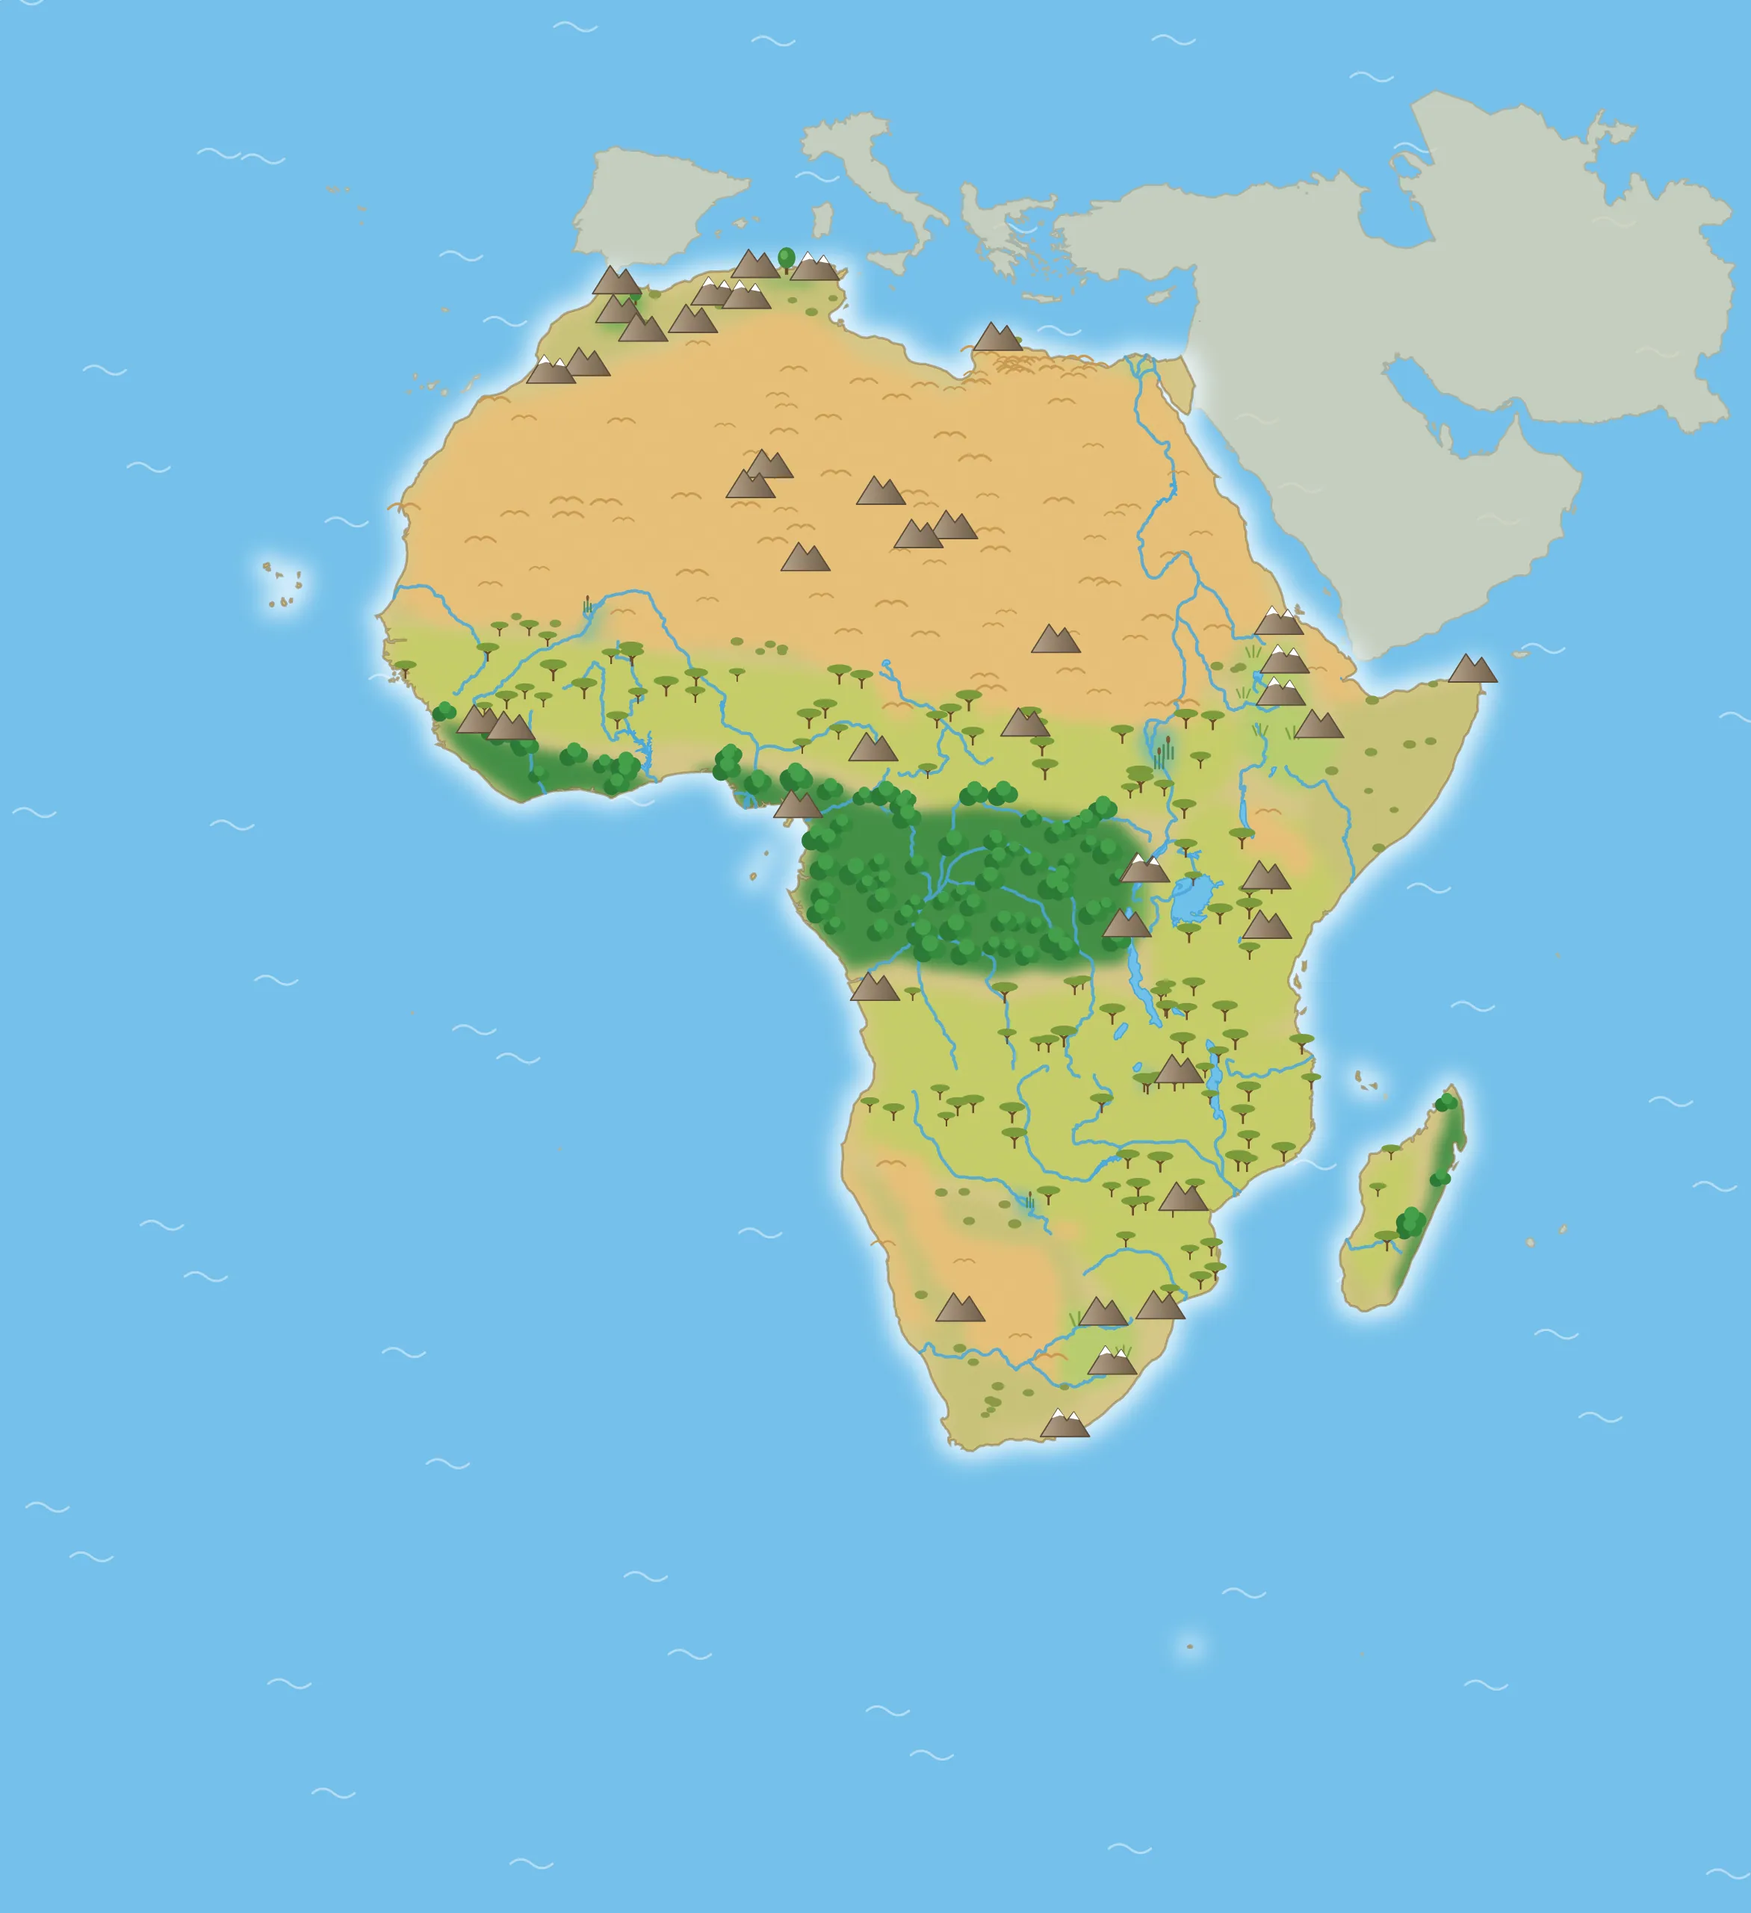
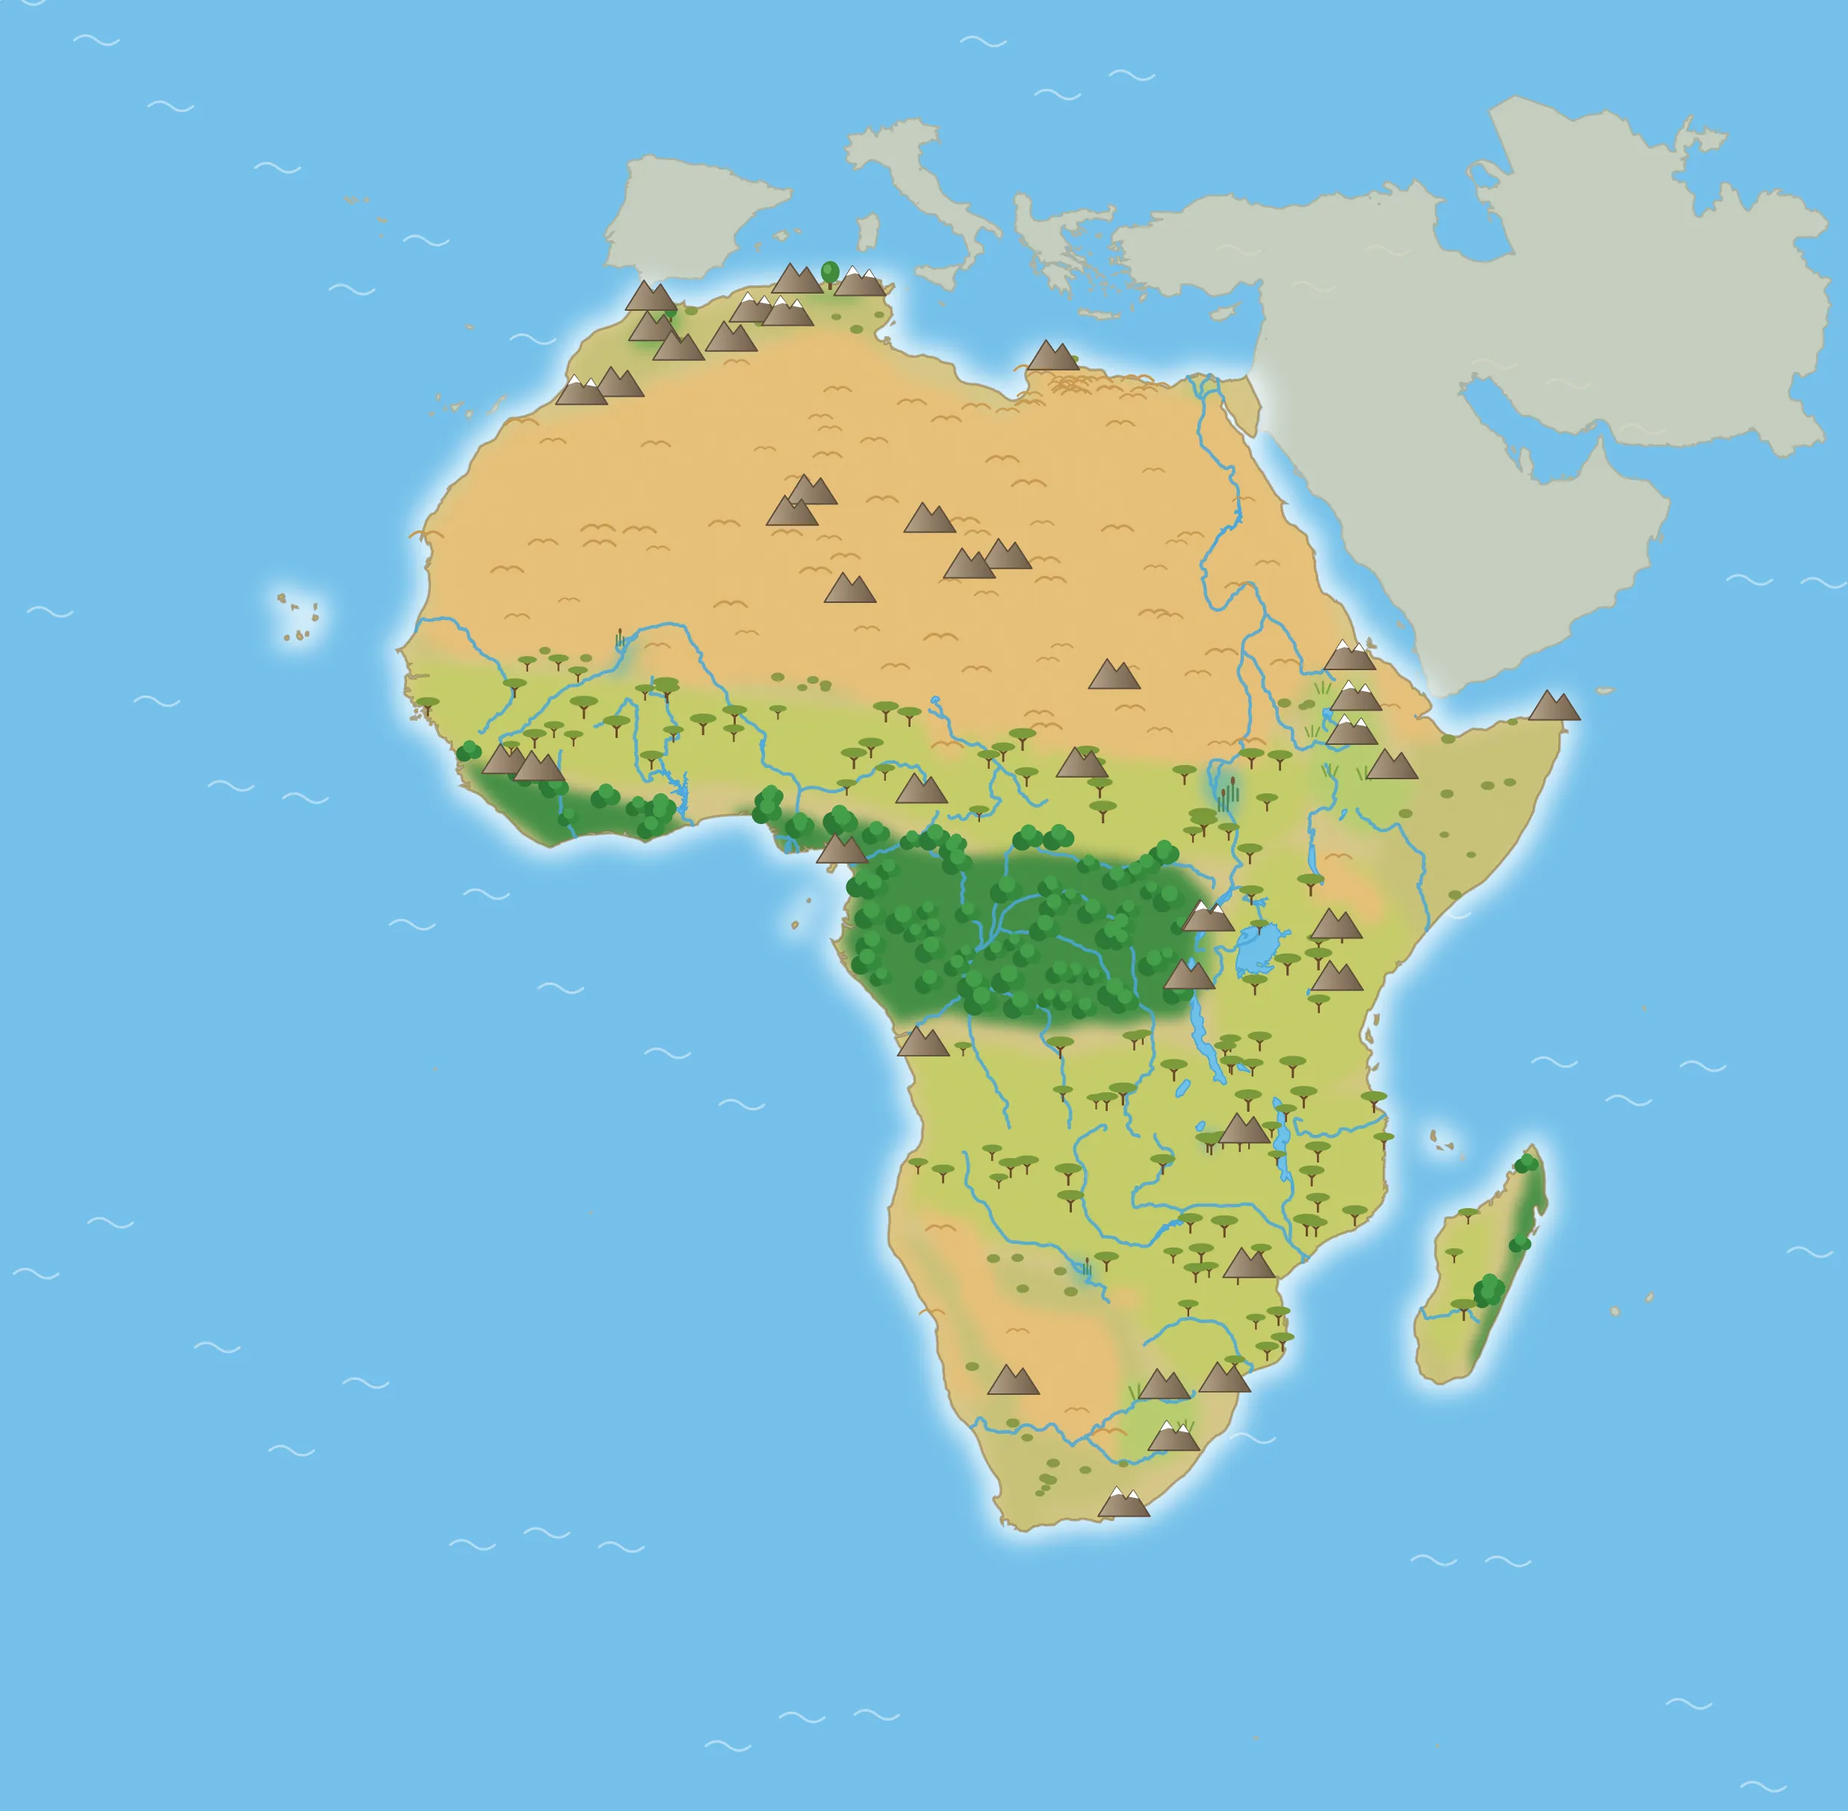
Zoom on continent maps: wheel, pinch, double-click and +/- buttons
Animal pictures grow when zooming in (slower than the map, so they also spread apart).
Africa's south part no longer includes the sub-Antarctic Prince Edward Islands,
which made it zoom out too far.

Changed region(s): [[0.1246, 0.0309, 0.9966, 0.8663], [0.654, 0.8354, 0.6852, 0.8663]]

diff --git a/src/components/ContinentPage.tsx b/src/components/ContinentPage.tsx
@@ -3,11 +3,15 @@ import { REGION_NAMES, mapUrl, type ContinentData, type ContinentGeo } from '../
 import type { Animal, RegionId } from '../data/types'
 import { UI, useLang } from '../i18n'
 import { speak } from '../speech'
-import { ArrowIcon } from './icons'
+import { ArrowIcon, MinusIcon, PlusIcon } from './icons'
 
 const REGIONS: RegionId[] = ['north', 'middle', 'south']
 
 type Camera = { s: number; tx: number; ty: number }
+type View = { region: RegionId; z: number; tx: number; ty: number }
+
+/** How far kids can zoom in (times the normal view). */
+const MAX_ZOOM = 6
 
 /** Space kept free for the big arrows at the top/bottom of the screen. */
 const PAD_Y = 96
@@ -51,12 +55,12 @@ export default function ContinentPage({
   const regionName = (r: RegionId) => t(REGION_NAMES[data.key]?.[r] ?? UI[r])
   const viewportRef = useRef<HTMLDivElement>(null)
   const [size, setSize] = useState({ w: window.innerWidth, h: window.innerHeight })
-  // Manual dragging offset; it belongs to one region and resets when the region changes
-  const [panState, setPanState] = useState({ region, x: 0, y: 0 })
-  const pan = panState.region === region ? panState : { region, x: 0, y: 0 }
-  const setPan = (p: { x: number; y: number }) => setPanState({ region, ...p })
-  const [dragging, setDragging] = useState(false)
-  const drag = useRef<{ x: number; y: number; px: number; py: number; moved: boolean } | null>(null)
+  // The user's own zoom + position (from dragging, pinching, the wheel or the +/- buttons).
+  // It belongs to one region: switching to another part of the continent starts fresh.
+  const [view, setView] = useState<View | null>(null)
+  const userView = view && view.region === region ? view : null
+  // True while a finger/mouse is moving the map: no smooth CSS transition then, and no accidental animal clicks
+  const [interacting, setInteracting] = useState(false)
 
   useLayoutEffect(() => {
     const el = viewportRef.current
@@ -67,7 +71,50 @@ export default function ContinentPage({
   }, [])
 
   const base = cameraFor(geo, region, size.w, size.h)
-  const cam = clampCamera(geo, { ...base, tx: base.tx + pan.x, ty: base.ty + pan.y }, size.w, size.h)
+  const zoom = userView?.z ?? 1
+  const cam = clampCamera(geo, userView ? { s: base.s * zoom, tx: userView.tx, ty: userView.ty } : base, size.w, size.h)
+
+  /** Set zoom level `z` with the map moved to (tx, ty) – kept inside the map. */
+  const commit = (z: number, tx: number, ty: number) => {
+    const c = clampCamera(geo, { s: base.s * z, tx, ty }, size.w, size.h)
+    setView({ region, z, tx: c.tx, ty: c.ty })
+  }
+  /** Zoom to `z`, keeping the map point under the screen point (fx, fy) in place. */
+  const zoomAt = (fx: number, fy: number, z: number) => {
+    const nz = Math.min(MAX_ZOOM, Math.max(1, z))
+    const k = (base.s * nz) / cam.s
+    commit(nz, fx - (fx - cam.tx) * k, fy - (fy - cam.ty) * k)
+  }
+
+  // Latest values for the native (non-React) wheel listener
+  const latest = useRef({ zoomAt, zoom })
+  useEffect(() => {
+    latest.current = { zoomAt, zoom }
+  })
+  useEffect(() => {
+    const el = viewportRef.current
+    if (!el) return
+    let timer = 0
+    const onWheel = (e: WheelEvent) => {
+      e.preventDefault()
+      // ctrlKey = pinch on a laptop trackpad; plain wheel zooms more gently
+      const factor = Math.exp(-e.deltaY * (e.ctrlKey ? 0.01 : 0.002))
+      setInteracting(true)
+      window.clearTimeout(timer)
+      timer = window.setTimeout(() => setInteracting(false), 150)
+      latest.current.zoomAt(e.clientX, e.clientY, latest.current.zoom * factor)
+    }
+    // Safari: stop the whole page from zooming on pinch
+    const stop = (e: Event) => e.preventDefault()
+    el.addEventListener('wheel', onWheel, { passive: false })
+    el.addEventListener('gesturestart', stop)
+    el.addEventListener('gesturechange', stop)
+    return () => {
+      el.removeEventListener('wheel', onWheel)
+      el.removeEventListener('gesturestart', stop)
+      el.removeEventListener('gesturechange', stop)
+    }
+  }, [])
 
   const idx = REGIONS.indexOf(region)
   const go = (delta: number) => {
@@ -92,42 +139,89 @@ export default function ContinentPage({
     return () => window.removeEventListener('keydown', onKey)
   }, [])
 
+  // ---- dragging with one finger / the mouse, pinch-zooming with two fingers
+  const pointers = useRef(new Map<number, { x: number; y: number }>())
+  const gesture = useRef<
+    | { kind: 'drag'; x: number; y: number; tx: number; ty: number; moved: boolean }
+    | { kind: 'pinch'; dist: number; mx: number; my: number; z: number; cam: Camera }
+    | null
+  >(null)
+
+  /** Keep receiving this finger's moves even when it leaves the map (never let it break the gesture). */
+  const capture = (pointerId: number) => {
+    try {
+      viewportRef.current?.setPointerCapture(pointerId)
+    } catch {
+      /* pointer already gone */
+    }
+  }
+
+  const startGesture = () => {
+    const pts = [...pointers.current.values()]
+    if (pts.length >= 2) {
+      const [a, b] = pts
+      const mx = (a.x + b.x) / 2
+      const my = (a.y + b.y) / 2
+      // remember which map point is under the fingers, so it stays under them
+      gesture.current = { kind: 'pinch', dist: Math.hypot(a.x - b.x, a.y - b.y) || 1, mx, my, z: zoom, cam }
+      setInteracting(true)
+    } else if (pts.length === 1) {
+      const moved = gesture.current?.kind === 'pinch' // continuing after a pinch: already "moving"
+      gesture.current = { kind: 'drag', x: pts[0].x, y: pts[0].y, tx: cam.tx, ty: cam.ty, moved }
+    } else gesture.current = null
+  }
+
   const onPointerDown = (e: React.PointerEvent) => {
-    drag.current = { x: e.clientX, y: e.clientY, px: pan.x, py: pan.y, moved: false }
+    pointers.current.set(e.pointerId, { x: e.clientX, y: e.clientY })
+    if (pointers.current.size >= 2) capture(e.pointerId)
+    startGesture()
   }
   const onPointerMove = (e: React.PointerEvent) => {
-    const d = drag.current
-    if (!d) return
-    const dx = e.clientX - d.x
-    const dy = e.clientY - d.y
-    if (!d.moved && Math.hypot(dx, dy) < 8) return
-    if (!d.moved) {
-      d.moved = true
-      setDragging(true)
-      viewportRef.current?.setPointerCapture(e.pointerId)
+    if (!pointers.current.has(e.pointerId)) return
+    pointers.current.set(e.pointerId, { x: e.clientX, y: e.clientY })
+    const g = gesture.current
+    if (!g) return
+    if (g.kind === 'pinch') {
+      const [a, b] = [...pointers.current.values()]
+      const nz = Math.min(MAX_ZOOM, Math.max(1, (g.z * Math.hypot(a.x - b.x, a.y - b.y)) / g.dist))
+      const s1 = base.s * nz
+      const mapX = (g.mx - g.cam.tx) / g.cam.s
+      const mapY = (g.my - g.cam.ty) / g.cam.s
+      commit(nz, (a.x + b.x) / 2 - mapX * s1, (a.y + b.y) / 2 - mapY * s1)
+      return
     }
-    setPan({ x: d.px + dx, y: d.py + dy })
+    const dx = e.clientX - g.x
+    const dy = e.clientY - g.y
+    if (!g.moved && Math.hypot(dx, dy) < 8) return
+    if (!g.moved) {
+      g.moved = true
+      setInteracting(true)
+      capture(e.pointerId)
+    }
+    commit(zoom, g.tx + dx, g.ty + dy)
   }
-  const endDrag = () => {
-    const d = drag.current
-    drag.current = null
-    if (d?.moved) {
-      // Keep the pan the user sees (store the clamped result so the next drag starts from it)
-      setPan({ x: cam.tx - base.tx, y: cam.ty - base.ty })
+  const onPointerUp = (e: React.PointerEvent) => {
+    pointers.current.delete(e.pointerId)
+    const wasMoving = gesture.current?.kind === 'pinch' || (gesture.current?.kind === 'drag' && gesture.current.moved)
+    startGesture()
+    if (pointers.current.size === 0 && wasMoving) {
       // let the click that follows a drag be ignored
-      window.setTimeout(() => setDragging(false), 0)
+      window.setTimeout(() => setInteracting(false), 0)
     }
   }
+
+  const zoomButton = (factor: number) => zoomAt(size.w / 2, size.h / 2, zoom * factor)
 
   return (
     <main className="continent-page">
       <div
-        className={`map-viewport ${dragging ? 'dragging' : ''}`}
+        className={`map-viewport ${interacting ? 'dragging' : ''}`}
         ref={viewportRef}
         onPointerDown={onPointerDown}
         onPointerMove={onPointerMove}
-        onPointerUp={endDrag}
-        onPointerCancel={endDrag}
+        onPointerUp={onPointerUp}
+        onPointerCancel={onPointerUp}
+        onDoubleClick={(e) => zoomAt(e.clientX, e.clientY, zoom >= MAX_ZOOM ? 1 : zoom * 2)}
       >
         <div
           className="map-stage"
@@ -138,6 +232,8 @@ export default function ContinentPage({
               '--tx': `${cam.tx}px`,
               '--ty': `${cam.ty}px`,
               '--s': cam.s,
+              // animal pictures grow when zooming in – a bit slower than the map, so they also spread apart
+              '--pz': Math.pow(zoom, 0.65),
             } as React.CSSProperties
           }
         >
@@ -156,7 +252,7 @@ export default function ContinentPage({
               className={`animal-pin ${a.region === region ? 'here' : 'away'}`}
               style={{ left: a.x, top: a.y }}
               onClick={() => {
-                if (!dragging) onAnimal(a)
+                if (!interacting) onAnimal(a)
               }}
               aria-label={a.name[lang]}
               title={a.name[lang]}
@@ -181,6 +277,15 @@ export default function ContinentPage({
           <ArrowIcon dir="down" />
         </button>
       )}
+
+      <div className="zoom-btns">
+        <button className="round-btn zoom-btn" onClick={() => zoomButton(1.6)} disabled={zoom >= MAX_ZOOM} aria-label={t(UI.zoomIn)}>
+          <PlusIcon />
+        </button>
+        <button className="round-btn zoom-btn" onClick={() => zoomButton(1 / 1.6)} disabled={zoom <= 1} aria-label={t(UI.zoomOut)}>
+          <MinusIcon />
+        </button>
+      </div>
 
       <div className="region-dots" aria-hidden="true">
         {REGIONS.map((r) => (

diff --git a/src/styles.css b/src/styles.css
@@ -3,6 +3,11 @@
   inherits: true;
   initial-value: 1;
 }
+@property --pz {
+  syntax: '<number>';
+  inherits: true;
+  initial-value: 1;
+}
 @property --tx {
   syntax: '<length>';
   inherits: false;
@@ -254,7 +259,7 @@ button {
   top: 0;
   transform-origin: 0 0;
   transform: translate(var(--tx), var(--ty)) scale(var(--s));
-  transition: --tx 0.9s ease-in-out, --ty 0.9s ease-in-out, --s 0.9s ease-in-out;
+  transition: --tx 0.6s ease-in-out, --ty 0.6s ease-in-out, --s 0.6s ease-in-out, --pz 0.6s ease-in-out;
 }
 .map-viewport.dragging .map-stage {
   transition: none;
@@ -280,7 +285,7 @@ button {
   overflow: hidden;
   background: #fff;
   box-shadow: 0 3px 8px rgba(0, 0, 0, 0.35);
-  transform: scale(calc(1 / var(--s)));
+  transform: scale(calc(var(--pz) / var(--s)));
   animation: bob 3.2s ease-in-out infinite;
   transition: box-shadow 0.2s;
 }
@@ -897,4 +902,29 @@ button {
   color: #fff;
   background: rgba(60, 45, 30, 0.75);
   pointer-events: none;
+}
+
+/* zoom buttons (bottom-right) */
+.zoom-btns {
+  position: fixed;
+  right: calc(16px + var(--safe-r));
+  bottom: calc(18px + var(--safe-b));
+  display: flex;
+  flex-direction: column;
+  gap: 14px;
+  z-index: 20;
+}
+.zoom-btn {
+  width: calc(var(--btn) * 0.8);
+  height: calc(var(--btn) * 0.8);
+  background: #fff;
+  color: #2f7d32;
+  box-shadow: 0 5px 0 #c9c9c9, 0 8px 16px rgba(0, 0, 0, 0.22);
+}
+.zoom-btn:active {
+  box-shadow: 0 2px 0 #c9c9c9, 0 4px 10px rgba(0, 0, 0, 0.22);
+}
+.zoom-btn:disabled {
+  opacity: 0.45;
+  cursor: default;
 }

diff --git a/src/components/icons.tsx b/src/components/icons.tsx
@@ -70,3 +70,19 @@ export function SearchIcon() {
     </svg>
   )
 }
+
+export function PlusIcon() {
+  return (
+    <svg viewBox="0 0 48 48" aria-hidden="true">
+      <path d="M24 10 V38 M10 24 H38" stroke="currentColor" strokeWidth="7" strokeLinecap="round" />
+    </svg>
+  )
+}
+
+export function MinusIcon() {
+  return (
+    <svg viewBox="0 0 48 48" aria-hidden="true">
+      <path d="M10 24 H38" stroke="currentColor" strokeWidth="7" strokeLinecap="round" />
+    </svg>
+  )
+}

diff --git a/src/i18n.tsx b/src/i18n.tsx
@@ -10,6 +10,8 @@ export const UI = {
   clearSearch: { en: 'Clear search', cs: 'Smazat hledání' },
   noResults: { en: 'No animal found', cs: 'Žádné zvíře jsme nenašli' },
   back: { en: 'Back', cs: 'Zpět' },
+  zoomIn: { en: 'Zoom in', cs: 'Přiblížit' },
+  zoomOut: { en: 'Zoom out', cs: 'Oddálit' },
   goNorth: { en: 'Go north', cs: 'Na sever' },
   goSouth: { en: 'Go south', cs: 'Na jih' },
   close: { en: 'Close', cs: 'Zavřít' },

diff --git a/README.md b/README.md
@@ -3,7 +3,7 @@
 A picture map of animals for small kids (who can't read yet), in English and Czech.
 
 - **Home:** logo + world map. Tap any continent.
-- **Continent:** painted map split into north / middle / south parts – big green arrows move between them, the yellow arrow goes back. The map can also be dragged. (Antarctica is seen from above the South Pole: Antarctic Peninsula / South Pole / East Antarctica.)
+- **Continent:** painted map split into north / middle / south parts – big green arrows move between them, the yellow arrow goes back. The map can be dragged and zoomed (mouse wheel / trackpad pinch, two-finger pinch on touch screens, double-click, or the + / − buttons) – the animal pictures grow when zooming in. (Antarctica is seen from above the South Pole: Antarctic Peninsula / South Pole / East Antarctica.)
 - **Animals:** ~350 animals on 7 continents. Tap a round photo to open the animal window: photos, full name, scientific classification, where it lives, what it eats, who eats it. The blue 🔊 buttons read the text aloud (browser speech, Czech or English).
 - **All animals:** the green grid button (top-right on the home page) opens an alphabetical list of every species with its photo, a search bar (searches the animal names shown, accents optional) and an A–Z bar on the right to jump to a letter; tapping an animal opens the same animal window.
 - **Language:** flag button in the bottom-left corner.
